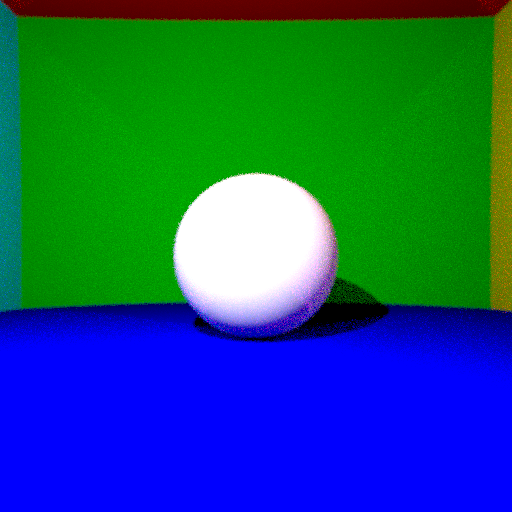
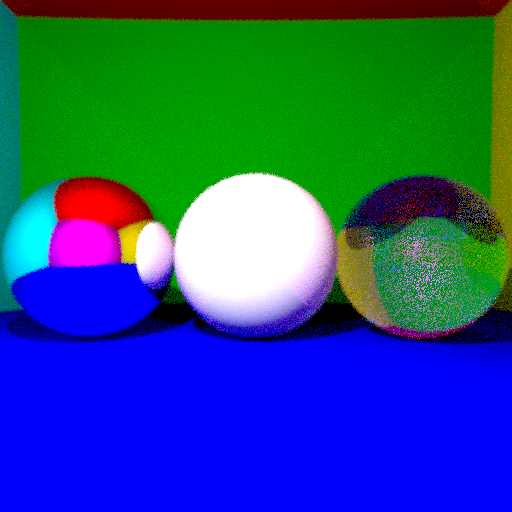
sphere are now geometry objects. code runs

diff --git a/main.cpp b/main.cpp
@@ -16,26 +16,22 @@ int main() {
     clock_t tStart = clock();
 
     // Define scene
-    Sphere white_ball(Vector(0, 0, 0), 10, Vector(1, 1, 1));
-    Sphere ceiling(Vector(0, 1000, 0), 940, Vector(1, 0, 0)); 
-    Sphere front_wall(Vector(0, 0, -1000), 940, Vector(0, 1, 0));
-    Sphere floor(Vector(0, -1000, 0), 990, Vector(0, 0, 1));
-    Sphere back_wall(Vector(0, 0, 1000), 940, Vector(1, 0, 1));
-    Sphere left_wall(Vector(-1000, 0, 0), 940, Vector(0, 1, 1));
-    Sphere right_wall(Vector(1000, 0, 0), 940, Vector(1, 1, 0));
-    // Sphere mirror_ball(Vector(-20, 0, 0), 10, Vector(1, 1, 1));
-    // mirror_ball.reflects = true;
-    // Sphere glass_ball(Vector(20, 0, 0), 10, Vector(1, 1, 1));
-    // glass_ball.refracts = true;
+    Geometry* white_ball  = new Sphere(Vector(0, 0, 0), 10, Vector(1, 1, 1));
+    Geometry* ceiling     = new Sphere(Vector(0, 1000, 0), 940, Vector(1, 0, 0)); 
+    Geometry* front_wall  = new Sphere(Vector(0, 0, -1000), 940, Vector(0, 1, 0));
+    Geometry* floor       = new Sphere(Vector(0, -1000, 0), 990, Vector(0, 0, 1));
+    Geometry* back_wall   = new Sphere(Vector(0, 0, 1000), 940, Vector(1, 0, 1));
+    Geometry* left_wall   = new Sphere(Vector(-1000, 0, 0), 940, Vector(0, 1, 1));
+    Geometry* right_wall  = new Sphere(Vector(1000, 0, 0), 940, Vector(1, 1, 0));
+    Geometry* mirror_ball = new Sphere(Vector(-20, 0, 0), 10, Vector(1, 1, 1));
+    Geometry* glass_ball  = new Sphere(Vector(20, 0, 0), 10, Vector(1, 1, 1));
+    mirror_ball->reflects = true;
+    glass_ball->refracts = true;
 
-    static const Sphere array[] = {
-        white_ball, // mirror_ball, glass_ball,
+    Scene scene({
+        white_ball, mirror_ball, glass_ball,
         front_wall, back_wall, left_wall, right_wall, ceiling, floor
-        };
-
-    vector<Sphere> scene_vector (array, array + sizeof(array) / sizeof(array[0]));
-
-    Scene scene(scene_vector);
+        });
     Vector S(-10, 20, 40);
 
     // Viewing window

diff --git a/objects.cpp b/objects.cpp
@@ -127,7 +127,7 @@ Intersection Sphere::intersect(const Ray& r) {
 }
 
 // Scene definition
-Scene::Scene(vector<Sphere> spheres) {
+Scene::Scene(vector<Geometry*> spheres) {
     this->s = spheres;
 };
 
@@ -138,8 +138,8 @@ Intersection Scene::intersect(const Ray& r) {
 
     for (int i=0; i<s.size(); i++) {
 
-        Sphere sphere = s[i];
-        Intersection intersection = sphere.intersect(r);
+        Geometry* sphere = s[i];
+        Intersection intersection = sphere->intersect(r);
 
         if (intersection.flag) {
 
@@ -167,10 +167,10 @@ Vector Scene::getColor(const Ray& r, Vector& S, int ray_depth) {
 
     if (i.flag) {
     
-        Sphere int_sphere = s[i.sphere_id];
+        Geometry* int_sphere = s[i.sphere_id];
 
         // Reflective surface
-        if (int_sphere.reflects) {
+        if (int_sphere->reflects) {
             
             Ray reflected_ray(i.P + scale(0.01, i.N), r.u - (scale(2 * dot(r.u, i.N), i.N)));
             return getColor(reflected_ray, S, ray_depth - 1);
@@ -178,7 +178,7 @@ Vector Scene::getColor(const Ray& r, Vector& S, int ray_depth) {
         }
 
         // Transparent surface
-        if (int_sphere.refracts) {
+        if (int_sphere->refracts) {
 
             const double glass_n = 1.5168;
 

diff --git a/objects.h b/objects.h
@@ -86,9 +86,9 @@ class Scene {
 
 public:
 
-    vector<Sphere> s;
+    vector<Geometry*> s;
     
-    Scene(vector<Sphere> spheres);
+    Scene(vector<Geometry*> spheres);
     Intersection intersect(const Ray& r);
     Vector getColor(const Ray& r, Vector& S,  int ray_depth = 5);
 
